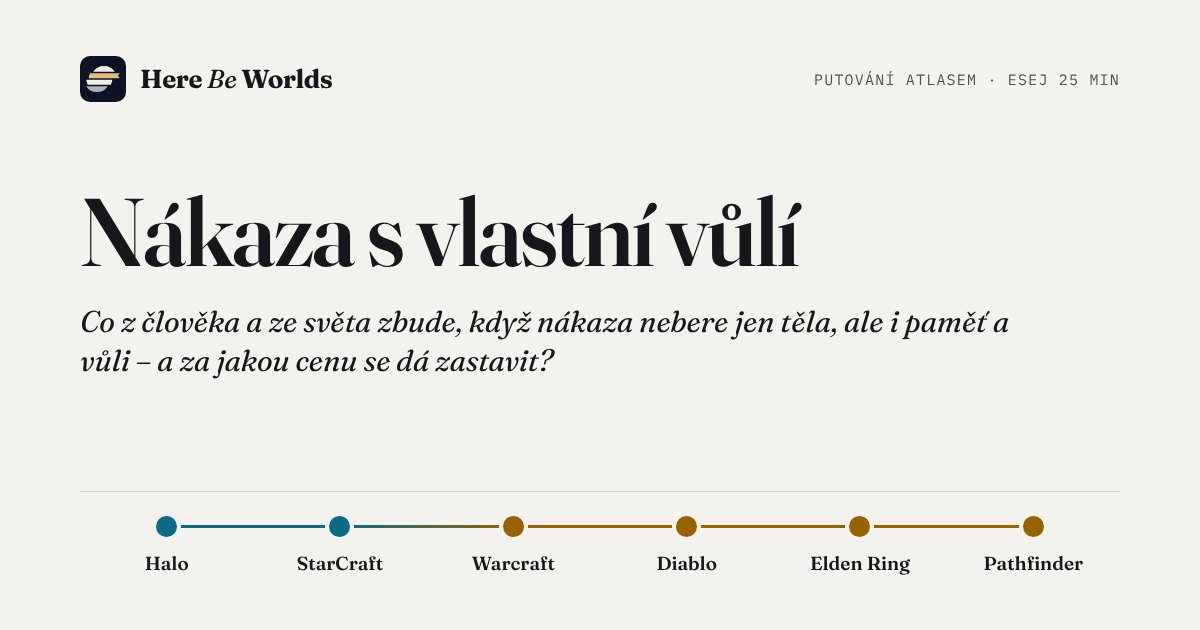
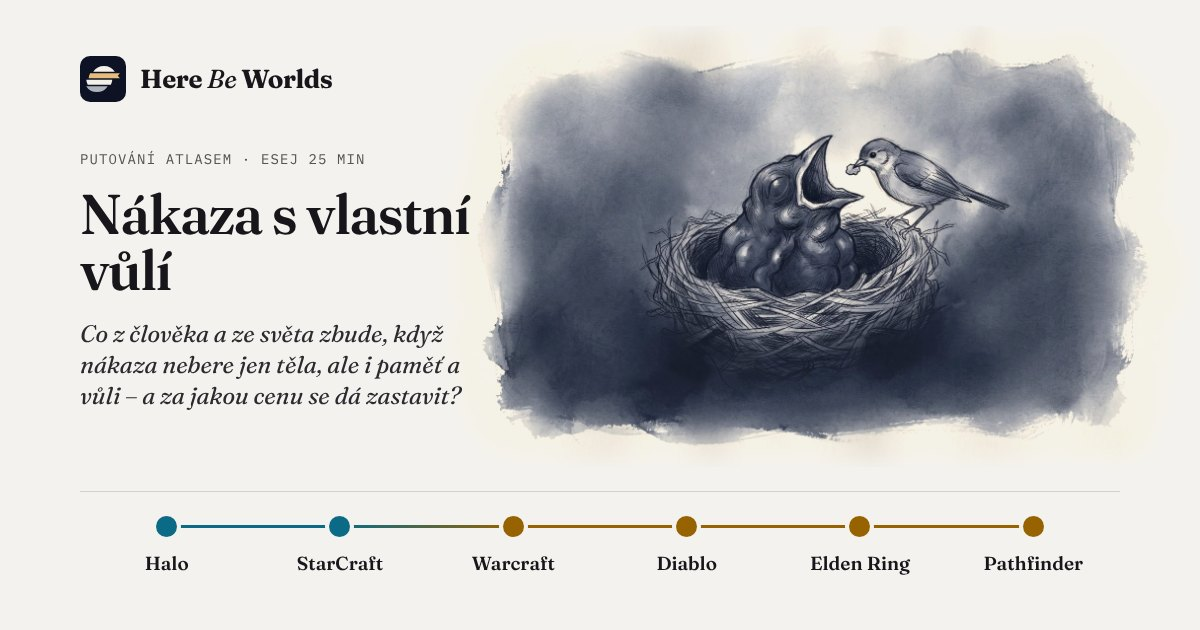
Obrázky k putování Nákaza s vlastní vůlí: kukaččí mládě, loutka na nitích z podhoubí, vytržený zub s rostoucími kořeny; obrázky má všech 22 putování
Claude-Session: https://claude.ai/code/session_01B7obWLKHHEWxurZ5a1svnf

diff --git a/src/lib/trail-images.ts b/src/lib/trail-images.ts
@@ -33,7 +33,7 @@ export const READY: Record<TrailId, number> = {
   'chronicle-keepers': 3,
   copies: 3,
   'endless-work': 3,
-  'true-names': 3,
+  'true-names': 3, contagion: 3,
 };
 
 const DIR = 'putovani-obrazky';

diff --git a/docs/obrazky-putovani.md b/docs/obrazky-putovani.md
@@ -15,7 +15,7 @@ Stav 2026-11-23: styl nalezený po pěti kolech zkoušek (náhled `/putovani/nav
 - **Spojit nespojitelné (majitel 2026-11-26, Jméno jako klíč i kletba):** nejlépe fungují dva známé předměty ze vzdálených světů spojené do jednoho paradoxu (zvon s psím náhubkem, vězeňské mříže a čárový kód, strašák s korunou, kterému se klaní vrány), ne jeden okoukaný symbol tématu (klíč, zámek, strom, cenovky – „ohrané“).
 - **Mood a Composition u velkých scén (majitel 2026-11-26, Práce, která nikdy nekončí):** šablona v oddílu Jak generovat (Mood „jedna myšlenka nesená jedním malým předmětem“, Composition „detail nebo polocelek“) patří jen ke scénám s jedním předmětem. U velké scény (brána hřbitova s plotem, dům, krajina) psát Mood a Composition na míru jako u série Logo nad troskami, Style a Colour nikdy neměnit. Po nezdaru nepřidávat do scény další požadavky (ciferník bez ručiček, jedna díra v každé kartě, dva stojany…): scéna pak bývá horší; spíš se vrátit k nejjednodušší verzi, která fungovala.
 - **Neopakovat se, nečekaný znepokojivý detail (majitel 2026-11-25, u Prokletého dědictví):** napříč putováními se začaly opakovat stejné rekvizity (klíčky, zrcadla, obrazy, botičky, stopy) a majitel to zamítl: „chce to přijít s něčím nečekaným, a o to víc znepokojivým, musí tam být nějaký nečekaný moment, detail“. Vzor: kolébka s korunou, jejíž stín na zdi je rakev. Postup: obyčejný předmět (domácí, dětský, rodinný), který na první pohled nic nenaznačuje, a jediný detail, který ho na druhý pohled převrátí. Před návrhem motivů projít seznam níže a nesáhnout po ničem, co v něm už je; když se rekvizita přece jen hodí, říct to majiteli předem. Témata smějí být temná a zlověstná, bez krve a násilí (v promptu `Avoid: … gore`; u temných putování Mood „ominous surrealism … heavy with dread“ místo „quiet“).
-- **Už použité rekvizity (doplňovat po každém putování):** klíče a klíčové dírky (klíč stočený do kruhu, měsíc jako klíčová dírka) · zrcadla (rukavice a zrcátko, zamlžené zrcadlo) · obrazy a rámy (stín, který vypadl z obrazu) · boty a stopy (stopy ve sněhu, prázdné boty u žebříku) · prázdné oděvy (plášť na trůnu, kabát ukazující cestu, rukavice) · žebra a kosti jako stavivo (katedrála ze žeber, jablko se žebry) · trůny (plášť na trůnu, trůn s břízou) · knihy, deníky a dopisy (postavička z knihy, můra z deníku, dopisy z hlavy sochy, hranice srolovaných dopisů) · hodiny (kavalerie z rozbitých hodin) · světla (lucerna, svíčka, oheň u gramofonu) · koště a brky (koště z brků) · kouř (sirka z kouře, beránek z kouře) · nábytek a pokoje (křesla za sklem, okno s pokojem na pláni, koberec nad jámou) · stín jako odhalení (stín klíče, stín z obrazu, stín chapadel u pulce, stín rakve u kolébky) · ostatní: městečko na jevišti s roztrženým nebem, vajíčko ve vajíčku, kamenné víčko, domy otáčející se za chodcem, most z dlažby, kořenů, copů a prádla, prapory z hejn ptáků, kolotoč z děl, žebřík opřený o nebe, gramofon s hvězdami, sklenice s pulcem, mince na hraně, řetěz s dětským poutem, šperkovnice s mléčnými zuby, koleje a výhybka (smyčka jako oko), obojek s vodítkem do mraků, trhací kalendář s prázdnými listy, hostina v dunách, schodiště zpět do země, zazděný oblouk s pěšinou kolem, atomový hřib jako budova, parkovací automaty jako náhrobky, mraky na provázku s cenovkami, banánová slupka nad propastí, ostnatý plot s girlandami a balonky, úsměv na zamlženém okénku, socha s vyměnitelnou hlavou, stohy ze skartovaného papíru, psací stroj s papírovou cestou, dva měsíce s jedním odrazem, pampeliška z pampelišek, kohout vyměněný s korouhví, koště a zavátá dlažba v dunách, píchačky u hřbitova, balíky u rozpadlého domu, zvon s náhubkem, mříže s čárovým kódem, strašák s korunou (a kolébka v seznamu stínů). Zkoušené a zamítnuté u svobodné vůle: hrací skříňka s baletkou, kostka ve vzduchu, piliny s magnetem (třikrát nevyšlo), budka zatlučená zevnitř. U Ráje: hradby obrácené dovnitř (vyšel obyčejný hrad), maják na dně (vypadá jako zatopený katastrofou), ráj pod skleněným zvonem (vypadá jako sněžítko), fontána s pískem (písek vypadá jako voda), kryt s pentlí (dveře jako trezor z Falloutu). U Smíchu nad propastí: pochod natahovacích zubů a jednokolka na girlandě přes rokli (dobré, ale znovu skály a propast), čertík v krabičce (barevný), kartotéka s vesmírem (digitální jiskry), past s konfetami, plynová maska s úsměvem, socha v šaškovské čepici (komiks), přepážka v bouři (červený provaz), balonkový pes v pitevně (lesklý), hráz z gumových kachniček (výborná, záloha), roztržené šapitó, rakev s frkačkou (frkačka jako svitek), skákací hrad (věžičky jako rakety). U Jména jako klíče i kletby: ucho místo zámku, zašitá kamenná tvář, vysekané jméno na náhrobku, stín vlka za kloboukem, šatna s visačkami, cenzurní pruhy v krajině, svlečka člověka, hroby otočené zády, přijímací pás s uniformami, klíč se zuby (klíč ohraný), strom se jmenovkami (strom i cenovky už byly). U Práce, která nikdy nekončí: jehla sešívající trhlinu v zemi (dobrá, nevybraná), kancelářská židle s koulí na řetězu (klišé), kolo pro křečka nad městem, hora balíků se stromem (vánoční stromeček, levitující balíky), stopy k domu (klišé, stopy už máme), pluh na moři, zeď stavěná a rozpadající se, sekera obroušená na pahýl. Píchačky šly až napotřetí, když se scéna vrátila k nejjednodušší podobě. U Kopie bez originálu: Thésseova loď (prkna nepoznat, hnědá), kopírka s řadou dubů (kopírka už byla u skartovačky), kukaččí vejce (klišé), roubovaná jabloň (přeplácaná), řetěz papírových postav, dva hroby (bez druhé vrstvy), otisky prstů, stožár s větví, sbírka motýlů, láhev s přístavem. U Kdo drží kroniku: mapa se skalpelem (kruhová díra), inkoust zpod archivu (teče z kopce, archiv nepoznat), archeologický řez pod slavností, pomník s vysekanou postavou, odloupnutá tapeta (jakoby na stropě), vykrajovátko na hrdiny (čistá ilustrace), pevnost z knih, puzzle s kladivem, brk nad bojištěm (silný, ale prázdný; verze s přilbami a vavřínem moc světlá). Styl ujížděl, když se do šablony přidal řádek navíc („loose sketch“): obraz zesvětlal; šablonu neměnit, jen řádek Scene. U Loga nad troskami: guma (pilulka), razítko (otisk jako fotka), mravenčí farma s byty (doslovná, záloha). Poučení (majitel 2026-11-25): u celků musí být paradox hlavní tvar a číst se na první pohled; nic ze skutečného světa (Vítězný oblouk z Paříže zamítnut).
+- **Už použité rekvizity (doplňovat po každém putování):** klíče a klíčové dírky (klíč stočený do kruhu, měsíc jako klíčová dírka) · zrcadla (rukavice a zrcátko, zamlžené zrcadlo) · obrazy a rámy (stín, který vypadl z obrazu) · boty a stopy (stopy ve sněhu, prázdné boty u žebříku) · prázdné oděvy (plášť na trůnu, kabát ukazující cestu, rukavice) · žebra a kosti jako stavivo (katedrála ze žeber, jablko se žebry) · trůny (plášť na trůnu, trůn s břízou) · knihy, deníky a dopisy (postavička z knihy, můra z deníku, dopisy z hlavy sochy, hranice srolovaných dopisů) · hodiny (kavalerie z rozbitých hodin) · světla (lucerna, svíčka, oheň u gramofonu) · koště a brky (koště z brků) · kouř (sirka z kouře, beránek z kouře) · nábytek a pokoje (křesla za sklem, okno s pokojem na pláni, koberec nad jámou) · stín jako odhalení (stín klíče, stín z obrazu, stín chapadel u pulce, stín rakve u kolébky) · ostatní: městečko na jevišti s roztrženým nebem, vajíčko ve vajíčku, kamenné víčko, domy otáčející se za chodcem, most z dlažby, kořenů, copů a prádla, prapory z hejn ptáků, kolotoč z děl, žebřík opřený o nebe, gramofon s hvězdami, sklenice s pulcem, mince na hraně, řetěz s dětským poutem, šperkovnice s mléčnými zuby, koleje a výhybka (smyčka jako oko), obojek s vodítkem do mraků, trhací kalendář s prázdnými listy, hostina v dunách, schodiště zpět do země, zazděný oblouk s pěšinou kolem, atomový hřib jako budova, parkovací automaty jako náhrobky, mraky na provázku s cenovkami, banánová slupka nad propastí, ostnatý plot s girlandami a balonky, úsměv na zamlženém okénku, socha s vyměnitelnou hlavou, stohy ze skartovaného papíru, psací stroj s papírovou cestou, dva měsíce s jedním odrazem, pampeliška z pampelišek, kohout vyměněný s korouhví, koště a zavátá dlažba v dunách, píchačky u hřbitova, balíky u rozpadlého domu, zvon s náhubkem, mříže s čárovým kódem, strašák s korunou, kukaččí mládě v hnízdě, loutka na nitích, vytržený zub s kořeny (a kolébka v seznamu stínů). Zkoušené a zamítnuté u svobodné vůle: hrací skříňka s baletkou, kostka ve vzduchu, piliny s magnetem (třikrát nevyšlo), budka zatlučená zevnitř. U Ráje: hradby obrácené dovnitř (vyšel obyčejný hrad), maják na dně (vypadá jako zatopený katastrofou), ráj pod skleněným zvonem (vypadá jako sněžítko), fontána s pískem (písek vypadá jako voda), kryt s pentlí (dveře jako trezor z Falloutu). U Smíchu nad propastí: pochod natahovacích zubů a jednokolka na girlandě přes rokli (dobré, ale znovu skály a propast), čertík v krabičce (barevný), kartotéka s vesmírem (digitální jiskry), past s konfetami, plynová maska s úsměvem, socha v šaškovské čepici (komiks), přepážka v bouři (červený provaz), balonkový pes v pitevně (lesklý), hráz z gumových kachniček (výborná, záloha), roztržené šapitó, rakev s frkačkou (frkačka jako svitek), skákací hrad (věžičky jako rakety). U Jména jako klíče i kletby: ucho místo zámku, zašitá kamenná tvář, vysekané jméno na náhrobku, stín vlka za kloboukem, šatna s visačkami, cenzurní pruhy v krajině, svlečka člověka, hroby otočené zády, přijímací pás s uniformami, klíč se zuby (klíč ohraný), strom se jmenovkami (strom i cenovky už byly). U Práce, která nikdy nekončí: jehla sešívající trhlinu v zemi (dobrá, nevybraná), kancelářská židle s koulí na řetězu (klišé), kolo pro křečka nad městem, hora balíků se stromem (vánoční stromeček, levitující balíky), stopy k domu (klišé, stopy už máme), pluh na moři, zeď stavěná a rozpadající se, sekera obroušená na pahýl. U Nákazy s vlastní vůlí: vesnice ve vosím hnízdě, korálové brnění, domky ze sirkových krabiček, tvář z hejna ptáků, město v Petriho misce, král s houbou z hlavy, porcelánová panenka s pláství, zátiší hnijící do krajiny, šachy pohlcené houbou, deštníky srostlé v klobouk houby (dvakrát, houba vyšla zvlášť nad deštníky), hlídač na zátce obří láhve (dobrý, odložený), gramofon s houbou a šaty s vlečkou z lišejníku (gramofon i prázdné šaty už byly), kostka cukru jako město, stíny slité v jeden, vydlážděná zahrada, jelen s houbovým parožím, hlemýžď s nafouklými tykadly, ryba s vší místo jazyka, ropucha s dírami, housenka se zámotky, temná perla v ústřici, kapka inkoustu s prsty, sirky, ořech se spícím tvorem (vyšlo miminko, čte se jako zrození, ne nákaza). Poučení: nejlépe funguje tělesná, odpudivá drobnost z přírody nebo z těla, kde parazit je hned vidět (mládě, zub); velké scény s houbou se Gemini nedaří. Píchačky šly až napotřetí, když se scéna vrátila k nejjednodušší podobě. U Kopie bez originálu: Thésseova loď (prkna nepoznat, hnědá), kopírka s řadou dubů (kopírka už byla u skartovačky), kukaččí vejce (klišé), roubovaná jabloň (přeplácaná), řetěz papírových postav, dva hroby (bez druhé vrstvy), otisky prstů, stožár s větví, sbírka motýlů, láhev s přístavem. U Kdo drží kroniku: mapa se skalpelem (kruhová díra), inkoust zpod archivu (teče z kopce, archiv nepoznat), archeologický řez pod slavností, pomník s vysekanou postavou, odloupnutá tapeta (jakoby na stropě), vykrajovátko na hrdiny (čistá ilustrace), pevnost z knih, puzzle s kladivem, brk nad bojištěm (silný, ale prázdný; verze s přilbami a vavřínem moc světlá). Styl ujížděl, když se do šablony přidal řádek navíc („loose sketch“): obraz zesvětlal; šablonu neměnit, jen řádek Scene. U Loga nad troskami: guma (pilulka), razítko (otisk jako fotka), mravenčí farma s byty (doslovná, záloha). Poučení (majitel 2026-11-25): u celků musí být paradox hlavní tvar a číst se na první pohled; nic ze skutečného světa (Vítězný oblouk z Paříže zamítnut).
 - **Světlo:** výchozí je **čistě modrá tuš bez zlaté**. Zlatá (#E5BE7E) jen výjimečně, když ji řádek scény výslovně jmenuje a je jádrem motivu (klíčová dírka na nebi, oheň u gramofonu). Gemini jinak zlatou přidává sám (okénka, lucerny), protože ji má vzorový obrázek: proto prompt výslovně zakazuje převzít lampu ze vzoru (majitel 2026-11-23: „pořád stejné rozsvícené okýnko a lucerna“).
 - **Motiv:** detail nebo polocelek, ne velká scéna. Obraz s druhým čtením: na první pohled obyčejný, na druhý nese otázku eseje. Prázdný prostor kolem.
 - **Nikdy:** text, písmena, podpisy, rámečky; postavy, loga a místa z her; náboženské symboly; lidé (nanejvýš drobná postava zezadu, když to motiv potřebuje); cákance tuše; airbrush; uhlazená digitální linka.
@@ -27,7 +27,7 @@ Stav 2026-11-23: styl nalezený po pěti kolech zkoušek (náhled `/putovani/nav
 - Masky: `maska/<slug>-N.png` podle tuše pro tmavý motiv (`python3 scripts/ink-masks.py`, pak zkopírovat z `navrh-obrazku/maska/`, nebo upravit cestu ve skriptu), `maska/freska.png` obecná.
 - Které putování obrázky má: `READY` v `src/lib/trail-images.ts`. Obrázky se ukážou jen u schválené eseje.
 - Rejstřík `/putovani/` má rozvržení karet ve dvou sloupcích s obrázkem nahoře (C, vybráno ze tří variant: A obraz za textem, B střídavé desky). Obrázek v kartě je v obou motivech stejný: celý 16 : 9 bez ořezu, 90 % šířky karty, odstup nahoře a dole (majitel 2026-11-26); ve světlém motivu s maskou podle tuše (rozkreslené okraje jako v eseji), v tmavém jen fresková maska do ztracena. Dokud nemají obrázky všechna putování, stojí vedle karty s obrázkem textové karty.
-- Na webu (2026-11-23): Hra ví, že ji hraješ (městečko na jevišti s roztrženým namalovaným nebem; postavička vylezlá z ilustrace v knize; stín, který vypadl z obrazu na podlahu); Na mrtvole boha (tři: prázdný plášť na trůnu držený provazy davu; trůn, kterým prorůstá bříza; jablko s žebry místo jádřince); Netvor v zrcadle (zatím jeden: stopy ve sněhu, které se z bot mění v tlapy); Mluví už jen mrtví (tři: prázdný kabát, který ukazuje cestu; můra s křídly z deníku; potopená hlava sochy, z níž stoupají listy dopisu k loďce); Uvězněni v kruhu (tři: klíč stočený do kruhu se stínem rovného klíče; vajíčko ve vajíčku; z kouře dohořelé sirky nová sirka); Bohové jako břemeno (katedrála ze žeber, kamenné víčko); Město, které dýchá (domy, které se otáčejí za chodcem; most z dlažby, kořenů, copů a prádla); Dům, ze kterého nejde odejít (měsíc jako zlatá klíčová dírka nad městečkem, okno uprostřed pláně s pokojem uvnitř). Válka, kterou nikdo nevyhraje (tři obrázky: prapory z hejn ptáků, kolotoč z děl, kavalerie z rozbitých hodin se svíčkou v temnu); Pod lhostejnými hvězdami (žebřík opřený o nebe s prázdnými botami a lucernou, gramofon, ze kterého se sypou hvězdy, u táboráku); Kdo za to může? (tři: prázdná rukavice ukazuje na zrcátko a odraz ukazuje zpět na diváka; koberec, pod jehož rohem je jáma se schody a koště z brků; z hranice srolovaných dopisů odplouvá kouř jako spící beránek, 2026-11-25); Kdo se to probudil? (tři: zamlžené zrcadlo nad umyvadlem, v jehož setřeném pruhu je další zrcadlo; dvě stejná křesla v pokoji rozděleném sklem, které prochází mincí na hraně; sklenice s pulcem, jehož stín na zdi jsou chapadla; 2026-11-25); Prokleté dědictví (tři: kolébka s korunou, jejíž stín je rakev, křížek na koruně vyretušovaný; řetěz z praskliny v zemi s otevřeným dětským poutem, hnědý nádech řetězu převedený do indiga; šperkovnice s náhrdelníkem z mléčných zubů; 2026-11-25); Křehká hranice svobodné vůle (tři: koleje shora, které se u výhybky rozdělí a zase spojí kolem kulatého jezírka, takže tvoří oko; prázdný obojek s vodítkem napnutým do mraků; trhací kalendář s prázdnými listy, jeden právě utržený, původně k jinému tématu, majitel ho přidal; 2026-11-25); Ráj, který se nepovedl (tři, poprvé celky místo předmětu, na pokyn majitele velký motiv a paradox: monumentální schodiště, které se v oblouku vrací zpátky do země (titulní, majitel 2026-11-26); nekonečně dlouhý prostřený stůl v poušti, zavátý dunou; vymyšlený zazděný oblouk se sluncem, kolem jehož boku je v dlažbě vyšlapaná pěšina; 2026-11-25); Logo nad troskami (tři, satira: atomový hřib ztuhlý v kancelářskou budovu s otáčecími dveřmi a ostříhaným trávníkem v troskách; hřbitov, kde místo náhrobků stojí parkovací automaty; opuštěný vozík prodavače mraků na provázcích s prázdnými cenovkami pod holým nebem; 2026-11-26); Smích nad propastí (tři: banánová slupka na samé hraně útesu nad propastí; ostnatý plot se strážní věží vyzdobený girlandami a balonky, jeden balonek splasklý na ostnu; prstem nakreslený úsměv na zamlženém okénku bunkru, ze kterého stéká kondenzace; 2026-11-26); Kdo drží kroniku (tři, satira dějin: jezdecká socha bez hlavy, jeřáb spouští novou hlavu a vedle stojí regál s osmi různými náhradními hlavami; stohy na poli ze skartovaného papíru a skartovačka; psací stroj, jehož papír plynule přechází v cestu krajinou, s ukazatelem ve směru papíru (nakonec nová verze od majitele, kde papír na cestu navazuje sám); 2026-11-26); Kopie bez originálu (tři: dva stejné měsíce nad jezerem, které odráží jen jeden, uprostřed (odraz ručně nahrazený zrcadlenou kopií měsíce, aby seděl); pampeliška, od které místo semínek odlétají malé celé pampelišky a od nich ještě menší; živý kohout ztuhlý na korouhvi a tmavý nýtovaný plechový kohout s klouby v nohou zobající na dvoře (třetí verze, ve scéně tma a hustá mlha; korouhev se šipkou, bez ramen se světovými stranami; tuš sahala skoro k okraji a krémový lem v tmavém motivu prosvítal, proto má variantu pro tmavý motiv `kopie-bez-originalu-3-dark.jpg` s papírem u okraje přebarveným do mlhy; ve světlém motivu zůstává originál s maskou podle tuše. Obecně: obrázek může mít `<soubor>-dark.jpg`, `trail-images.ts` ho najde sám a esej ho ukáže jen v tmavém motivu); 2026-11-26); Práce, která nikdy nekončí (tři: zametený čtvereček dlažby uprostřed dun a kolem stejné čtverce zaváté pískem; tovární píchačky na pilíři hřbitovní brány se stojanem karet; polorozpadlý dům a u něj kopa nedoručených balíků; 2026-11-26); Jméno jako klíč i kletba (tři: zvon ve zvonici s koženým psím náhubkem; okno cely s mřížemi a za nimi čárový kód; strašák s korunou, kterému se v kruhu klaní vrány (křížek na koruně vyretušovaný); 2026-11-26). Postup: 5 motivů, vybrat 2. **Motivy: surrealismus a neobvyklé kompozice, klidně velké měřítko a zachycený pohyb (Magritte, Dalí), neobvyklé spojení předmětů (v duchu Magritta), jen lehce doslovné** — první kolo s doslovnými motivy (tapeta, dveře, kolébka) majitel zamítl jako nenápadité. Do promptu řádek `Mood: subtle surrealism in the spirit of Magritte: one unexpected combination, quiet and uncanny, never literal or explanatory. Rich in discoverable detail: several unexpected secondary motifs are woven into the main forms, so the viewer keeps finding new things on a second look.` Po přidání prvního obrázku obnovit kartu pro sdílení: `npm run og -- <slug> putovani` (fonty a Chromium viz CLAUDE.md). Masky: `python3 scripts/ink-masks.py public/putovani-obrazky/<slug>-1.jpg …`; když je světlý papír uprostřed součástí motivu (mezera mezi konci mostu), přidej `--fill`. Skript dělá dvě masky: `<soubor>.png` pro tmavý motiv a širokou `<soubor>-light.png` pro světlý (papír tam schová multiply a lehké vybělení `brightness(1.06) saturate(0.8)`, maska nesmí zamlžit slabé tahy; majitel 2026-11-23). Ve světlém motivu se v eseji kresba ořezává jen širokou maskou (fresková by ořízla tahy štětce nahoře a stopy u spodního okraje); v tmavém motivu (esej i rejstřík) jen fresková maska: tvar je vždy **zvlněný obdélník do ztracena**, nikdy vykrojený podle skvrn tuše (majitel 2026-11-23). Zkoušený okraj podle tahů štětce se světlým lemem majitel zamítl jako „příliš“: v tmavém motivu okraje nebudou tak působivé jako ve světlém a je to tak správně; v rejstříku zůstává i fresková (obrázek je tam oříznutý na 3 : 2).
+- Na webu (2026-11-23): Hra ví, že ji hraješ (městečko na jevišti s roztrženým namalovaným nebem; postavička vylezlá z ilustrace v knize; stín, který vypadl z obrazu na podlahu); Na mrtvole boha (tři: prázdný plášť na trůnu držený provazy davu; trůn, kterým prorůstá bříza; jablko s žebry místo jádřince); Netvor v zrcadle (zatím jeden: stopy ve sněhu, které se z bot mění v tlapy); Mluví už jen mrtví (tři: prázdný kabát, který ukazuje cestu; můra s křídly z deníku; potopená hlava sochy, z níž stoupají listy dopisu k loďce); Uvězněni v kruhu (tři: klíč stočený do kruhu se stínem rovného klíče; vajíčko ve vajíčku; z kouře dohořelé sirky nová sirka); Bohové jako břemeno (katedrála ze žeber, kamenné víčko); Město, které dýchá (domy, které se otáčejí za chodcem; most z dlažby, kořenů, copů a prádla); Dům, ze kterého nejde odejít (měsíc jako zlatá klíčová dírka nad městečkem, okno uprostřed pláně s pokojem uvnitř). Válka, kterou nikdo nevyhraje (tři obrázky: prapory z hejn ptáků, kolotoč z děl, kavalerie z rozbitých hodin se svíčkou v temnu); Pod lhostejnými hvězdami (žebřík opřený o nebe s prázdnými botami a lucernou, gramofon, ze kterého se sypou hvězdy, u táboráku); Kdo za to může? (tři: prázdná rukavice ukazuje na zrcátko a odraz ukazuje zpět na diváka; koberec, pod jehož rohem je jáma se schody a koště z brků; z hranice srolovaných dopisů odplouvá kouř jako spící beránek, 2026-11-25); Kdo se to probudil? (tři: zamlžené zrcadlo nad umyvadlem, v jehož setřeném pruhu je další zrcadlo; dvě stejná křesla v pokoji rozděleném sklem, které prochází mincí na hraně; sklenice s pulcem, jehož stín na zdi jsou chapadla; 2026-11-25); Prokleté dědictví (tři: kolébka s korunou, jejíž stín je rakev, křížek na koruně vyretušovaný; řetěz z praskliny v zemi s otevřeným dětským poutem, hnědý nádech řetězu převedený do indiga; šperkovnice s náhrdelníkem z mléčných zubů; 2026-11-25); Křehká hranice svobodné vůle (tři: koleje shora, které se u výhybky rozdělí a zase spojí kolem kulatého jezírka, takže tvoří oko; prázdný obojek s vodítkem napnutým do mraků; trhací kalendář s prázdnými listy, jeden právě utržený, původně k jinému tématu, majitel ho přidal; 2026-11-25); Ráj, který se nepovedl (tři, poprvé celky místo předmětu, na pokyn majitele velký motiv a paradox: monumentální schodiště, které se v oblouku vrací zpátky do země (titulní, majitel 2026-11-26); nekonečně dlouhý prostřený stůl v poušti, zavátý dunou; vymyšlený zazděný oblouk se sluncem, kolem jehož boku je v dlažbě vyšlapaná pěšina; 2026-11-25); Logo nad troskami (tři, satira: atomový hřib ztuhlý v kancelářskou budovu s otáčecími dveřmi a ostříhaným trávníkem v troskách; hřbitov, kde místo náhrobků stojí parkovací automaty; opuštěný vozík prodavače mraků na provázcích s prázdnými cenovkami pod holým nebem; 2026-11-26); Smích nad propastí (tři: banánová slupka na samé hraně útesu nad propastí; ostnatý plot se strážní věží vyzdobený girlandami a balonky, jeden balonek splasklý na ostnu; prstem nakreslený úsměv na zamlženém okénku bunkru, ze kterého stéká kondenzace; 2026-11-26); Kdo drží kroniku (tři, satira dějin: jezdecká socha bez hlavy, jeřáb spouští novou hlavu a vedle stojí regál s osmi různými náhradními hlavami; stohy na poli ze skartovaného papíru a skartovačka; psací stroj, jehož papír plynule přechází v cestu krajinou, s ukazatelem ve směru papíru (nakonec nová verze od majitele, kde papír na cestu navazuje sám); 2026-11-26); Kopie bez originálu (tři: dva stejné měsíce nad jezerem, které odráží jen jeden, uprostřed (odraz ručně nahrazený zrcadlenou kopií měsíce, aby seděl); pampeliška, od které místo semínek odlétají malé celé pampelišky a od nich ještě menší; živý kohout ztuhlý na korouhvi a tmavý nýtovaný plechový kohout s klouby v nohou zobající na dvoře (třetí verze, ve scéně tma a hustá mlha; korouhev se šipkou, bez ramen se světovými stranami; tuš sahala skoro k okraji a krémový lem v tmavém motivu prosvítal, proto má variantu pro tmavý motiv `kopie-bez-originalu-3-dark.jpg` s papírem u okraje přebarveným do mlhy; ve světlém motivu zůstává originál s maskou podle tuše. Obecně: obrázek může mít `<soubor>-dark.jpg`, `trail-images.ts` ho najde sám a esej ho ukáže jen v tmavém motivu); 2026-11-26); Práce, která nikdy nekončí (tři: zametený čtvereček dlažby uprostřed dun a kolem stejné čtverce zaváté pískem; tovární píchačky na pilíři hřbitovní brány se stojanem karet; polorozpadlý dům a u něj kopa nedoručených balíků; 2026-11-26); Jméno jako klíč i kletba (tři: zvon ve zvonici s koženým psím náhubkem; okno cely s mřížemi a za nimi čárový kód; strašák s korunou, kterému se v kruhu klaní vrány (křížek na koruně vyretušovaný); 2026-11-26; Nákaza s vlastní vůlí (tři: obludné temné mládě v hnízdě, které krmí drobný ptáček; dřevěná loutka tančí na nitích, které nahoře mizí v chuchvalci podhoubí; vytržená stolička na misce, z jejíchž kořenů rostou dál vlákna přes okraj a po stole; bez retuše, majitel 2026-11-26)). Postup: 5 motivů, vybrat 2. **Motivy: surrealismus a neobvyklé kompozice, klidně velké měřítko a zachycený pohyb (Magritte, Dalí), neobvyklé spojení předmětů (v duchu Magritta), jen lehce doslovné** — první kolo s doslovnými motivy (tapeta, dveře, kolébka) majitel zamítl jako nenápadité. Do promptu řádek `Mood: subtle surrealism in the spirit of Magritte: one unexpected combination, quiet and uncanny, never literal or explanatory. Rich in discoverable detail: several unexpected secondary motifs are woven into the main forms, so the viewer keeps finding new things on a second look.` Po přidání prvního obrázku obnovit kartu pro sdílení: `npm run og -- <slug> putovani` (fonty a Chromium viz CLAUDE.md). Masky: `python3 scripts/ink-masks.py public/putovani-obrazky/<slug>-1.jpg …`; když je světlý papír uprostřed součástí motivu (mezera mezi konci mostu), přidej `--fill`. Skript dělá dvě masky: `<soubor>.png` pro tmavý motiv a širokou `<soubor>-light.png` pro světlý (papír tam schová multiply a lehké vybělení `brightness(1.06) saturate(0.8)`, maska nesmí zamlžit slabé tahy; majitel 2026-11-23). Ve světlém motivu se v eseji kresba ořezává jen širokou maskou (fresková by ořízla tahy štětce nahoře a stopy u spodního okraje); v tmavém motivu (esej i rejstřík) jen fresková maska: tvar je vždy **zvlněný obdélník do ztracena**, nikdy vykrojený podle skvrn tuše (majitel 2026-11-23). Zkoušený okraj podle tahů štětce se světlým lemem majitel zamítl jako „příliš“: v tmavém motivu okraje nebudou tak působivé jako ve světlém a je to tak správně; v rejstříku zůstává i fresková (obrázek je tam oříznutý na 3 : 2).
 
 ## Jak generovat
 

diff --git a/CLAUDE.md b/CLAUDE.md
@@ -83,7 +83,7 @@ Kroniky a eseje **nejsou** v `data/`.
 | `/notes/` | `src/pages/notes/index.astro` | `NotesPage` — obsah oddílů (lepí se pod hlavičku, oddíl, který čteš, je podtržený; na telefonu jeden řádek posuvný do strany, 2026-11-25), rejstříkový seznam pojmů (štítek vlevo, výklad vpravo), legenda 1–5 jako pruh os; oddíly Charakter světa · Profil světa · Triáda (tři pojmy s odkazy do Anatomie a do Galerie triád / Mapy neznáma, pod nimi typy hříchů, dilemata, druhy tajemství a kdo drží mezeru s ikonami – texty z `triad-types.json`, 2026-11-24 se souhlasem majitele) · Příbuznost světů (4 pilíře, 5 stupňů slovy, bez procent) · Kompas a ladění · Hlubina času (2026-11-25 s pokynem majitele: šest pojmů – sloupec a hladina, období her a rysky, dějiny a fundamentální události, odhad, mýtus a cyklus, stupnice, naše časová osa – a odkaz na stránku; `noteDeepTime*`) · Kánon (texty v `data/meta/notes.ts`) |
 | `/anatomie-herniho-lore/` | `src/pages/anatomie-herniho-lore/index.astro` | `EssayPage` (obsah `ReadingToc` vlevo, čtecí sloupec jako kronika, doba čtení pod podtitulem) |
 | `/teoreticke-zazemi/` | `src/pages/teoreticke-zazemi/index.astro` | `EssayPage` z `content/essays/teoreticke-zazemi.md`: prameny atlasu po oblastech (fikční světy, fantastika, herní studia, hrůza a posvátno, mýtus, paměť, osoba a identita, moc a dohled, dílna tvůrců), tabulka pojmů, výhrady k autorům, co by sem ještě patřilo, seznam literatury. Odkaz z Anatomie (oddíl Na čem metoda stojí) a z patičky. **Po zapracování nové knihy doplnit i sem.** |
-| `/putovani/` | `src/pages/putovani/index.astro` | `TrailsIndex` (`src/components/trails/`, styly `trails.css`): hlavička jako atlas, filtry **Svět** a **Téma** (rozsvítí stezky, kterými svět prochází / které se tématu dotýkají, ostatní ztlumí; `?svet=<id>`, `?tema=<slug>`; klik na téma v řádku dělá totéž, jméno světa v kartě vede rovnou na spis světa (majitel 2026-11-24)); rejstřík 22 stezek jako **karty ve dvou sloupcích** (rozvržení C, majitel 2026-11-23; karta: obrázek nahoře přes celou šířku karty do ztracena, 3 : 2, pak název, popis, světy s linkou v barvě archetypu nad každým jménem, témata eseje jako hranaté štítky na tónovaném podkladu (vybrané téma v akcentu) = `themes` v `trails.ts`, 2–4 na stezku, a za nimi „Esej · N min“; karta bez obrázku je jen text; na telefonu jeden sloupec); oddíl **Kde se stezky kříží** (mřížka stezky × všechny světy podle abecedy, i ty na jediné stezce, vpravo počet (majitel 2026-11-22), tečka v barvě archetypu, pod kurzorem se rozsvítí sloupec i řádek, názvy stezek nahoře i dole; na telefonu seznam dvanácti nejvíc křížených světů). V hlavičce webu odkaz Putování hned za Atlasem; Putování dne na titulní straně vedou na stránky putování. Staré adresy `/stezky/…` přesměrovávají (`src/pages/stezky/`, `RedirectPage.astro`). Obrázky k putováním (jediné místo na webu s obrázky): styl a postup `docs/obrazky-putovani.md`, soubory `public/putovani-obrazky/`, seznam `READY` v `src/lib/trail-images.ts`; náhled v rejstříku (`TrailsIndex images`) a v eseji pod úvodním citátem a uprostřed (`EssayPage hero/hero2/heroLive`), okraj do ztracena maskou. Zatím Bohové jako břemeno, Dům, ze kterého nejde odejít, Pod lhostejnými hvězdami, Válka, kterou nikdo nevyhraje, Město, které dýchá, Uvězněni v kruhu, Mluví už jen mrtví, Netvor v zrcadle, Na mrtvole boha, Hra ví, že ji hraješ, Kdo za to může?, Kdo se to probudil?, Prokleté dědictví, Křehká hranice svobodné vůle, Ráj, který se nepovedl, Logo nad troskami, Smích nad propastí, Kdo drží kroniku, Kopie bez originálu, Práce, která nikdy nekončí a Jméno jako klíč i kletba. Zkušební náhled `/putovani/navrh-obrazku/` (noindex). |
+| `/putovani/` | `src/pages/putovani/index.astro` | `TrailsIndex` (`src/components/trails/`, styly `trails.css`): hlavička jako atlas, filtry **Svět** a **Téma** (rozsvítí stezky, kterými svět prochází / které se tématu dotýkají, ostatní ztlumí; `?svet=<id>`, `?tema=<slug>`; klik na téma v řádku dělá totéž, jméno světa v kartě vede rovnou na spis světa (majitel 2026-11-24)); rejstřík 22 stezek jako **karty ve dvou sloupcích** (rozvržení C, majitel 2026-11-23; karta: obrázek nahoře přes celou šířku karty do ztracena, 3 : 2, pak název, popis, světy s linkou v barvě archetypu nad každým jménem, témata eseje jako hranaté štítky na tónovaném podkladu (vybrané téma v akcentu) = `themes` v `trails.ts`, 2–4 na stezku, a za nimi „Esej · N min“; karta bez obrázku je jen text; na telefonu jeden sloupec); oddíl **Kde se stezky kříží** (mřížka stezky × všechny světy podle abecedy, i ty na jediné stezce, vpravo počet (majitel 2026-11-22), tečka v barvě archetypu, pod kurzorem se rozsvítí sloupec i řádek, názvy stezek nahoře i dole; na telefonu seznam dvanácti nejvíc křížených světů). V hlavičce webu odkaz Putování hned za Atlasem; Putování dne na titulní straně vedou na stránky putování. Staré adresy `/stezky/…` přesměrovávají (`src/pages/stezky/`, `RedirectPage.astro`). Obrázky k putováním (jediné místo na webu s obrázky): styl a postup `docs/obrazky-putovani.md`, soubory `public/putovani-obrazky/`, seznam `READY` v `src/lib/trail-images.ts`; náhled v rejstříku (`TrailsIndex images`) a v eseji pod úvodním citátem a uprostřed (`EssayPage hero/hero2/heroLive`), okraj do ztracena maskou. Zatím Bohové jako břemeno, Dům, ze kterého nejde odejít, Pod lhostejnými hvězdami, Válka, kterou nikdo nevyhraje, Město, které dýchá, Uvězněni v kruhu, Mluví už jen mrtví, Netvor v zrcadle, Na mrtvole boha, Hra ví, že ji hraješ, Kdo za to může?, Kdo se to probudil?, Prokleté dědictví, Křehká hranice svobodné vůle, Ráj, který se nepovedl, Logo nad troskami, Smích nad propastí, Kdo drží kroniku, Kopie bez originálu, Práce, která nikdy nekončí, Jméno jako klíč i kletba a Nákaza s vlastní vůlí (všech 22). Zkušební náhled `/putovani/navrh-obrazku/` (noindex). |
 | `/putovani/[id]/` | `src/pages/putovani/[id].astro` | Stránka každého putování, adresa = český slug z `TRAIL_SLUGS` (`trails.ts`), stejný jako soubor eseje v `content/trails/`. `EssayPage` s `trail`: pod hlavičkou `TrailCast` (světy) a `TrailThemes` (témata → `/putovani/?tema=`), před Zdroji `TrailWorlds` (souřadnice s výraznými názvy, seznam světů s archetypem a podžánrem). **Esej se ukáže jen s `approved: true` ve frontmatteru** (schvaluje majitel); jinak stránka ukáže rámeček „Esej připravujeme“, Světy putování a oddíl „Na čem putování stojí“ (jména pramenů z tabulky Prameny podle stezek v `docs/prameny/README.md`, `trailSources` v `src/lib/trail-pages.ts`). Neschválené eseje mají náhled `/putovani/navrh/<slug>/` (`noindex`, z webu na něj nic nevede). Schválené (2026-11-21): `na-mrtvole-boha`, `kdo-za-to-muze`, `kdo-se-to-probudil`, `netvor-v-zrcadle`, `mluvi-uz-jen-mrtvi`, `bohove-jako-bremeno`, `valka-kterou-nikdo-nevyhraje`, `proklete-dedictvi`, `krehka-hranice-svobodne-vule`, `uvezneni-v-kruhu`, `hra-vi-ze-ji-hrajes`, `raj-ktery-se-nepovedl`, `logo-nad-troskami`, `smich-nad-propasti`, `mesto-ktere-dycha`, `pod-lhostejnymi-hvezdami`, `kdo-drzi-kroniku`, `kopie-bez-originalu`, `dum-ze-ktereho-nejde-odejit`, `prace-ktera-nikdy-nekonci`, `jmeno-jako-klic-i-kletba`, `nakaza-s-vlastni-vuli` (všech 22). |
 | `/temata/` | `src/pages/temata/index.astro` | `ThemesIndex` (`src/components/themes/`, styly `themes.css`, 2026-11-24): pás hlavičky, řazení Podle abecedy / Podle počtu světů, rejstřík témat ve dvou sloupcích (název → stránka tématu, otázka kurzívou, otisk světů jako čtverečky v barvě archetypu, počet světů a putování) a **Kde se témata potkávají** (trojúhelníková mřížka téma × téma, kruh podle počtu světů s oběma tématy, prázdné šrafované, najetí rozsvítí řádek i sloupec a vypíše dvojici; na telefonu skrytá). |
 | `/temata/[slug]/` | `src/pages/temata/[slug].astro` | `ThemePage`, adresa = český název bez diakritiky (`themePageSlug` v `src/lib/themes.ts`). Hlavička v pásu: štítek „Téma“ (odkaz na rejstřík), název, otázka, „N světů · N archetypů · N putování“, vpravo **obloha z titulní strany v tuši** (`ThemeSky`; hvězdy na stejných místech díky `src/lib/sky.ts`, světy tématu rozsvícené v barvě archetypu a spojené přerušovanou nejkratší trasou, ostatní tlumeně; najetí na hvězdu ukáže jméno). Oddíly: **Světy** (záznamy ve třech sloupcích: linka v barvě archetypu, název, archetyp · podžánr, jádro kurzívou; najetí rozsvítí hvězdu) · **Podoba tématu** (Archetypy: řádek na archetyp, čtverečky = všechny jeho světy, plné = s tématem; Souřadnice: `AxisRange` s prázdným kosočtvercem průměru celého atlasu `reference`) · **Putování** (putování s tématem v `trails.ts` `themes`, první obrázek přes masku, otázka eseje, trasa světů, světy tématu tučně) · **Potkává se s** (šest témat nejčastěji ve stejných světech, `neighbourThemes`; není to příbuznost světů) · odkazy Otevřít v atlasu · Všechna témata. Podklady skládá při sestavení `src/lib/theme-pages.ts`. Odkazy na stránky témat: hledání (lupa), atlas (Další pohledy a „O tématu …“ pod počtem výsledků při filtru tématu), patička. Témata na kartě světa vedou na stránky témat (majitel 2026-11-24). |
